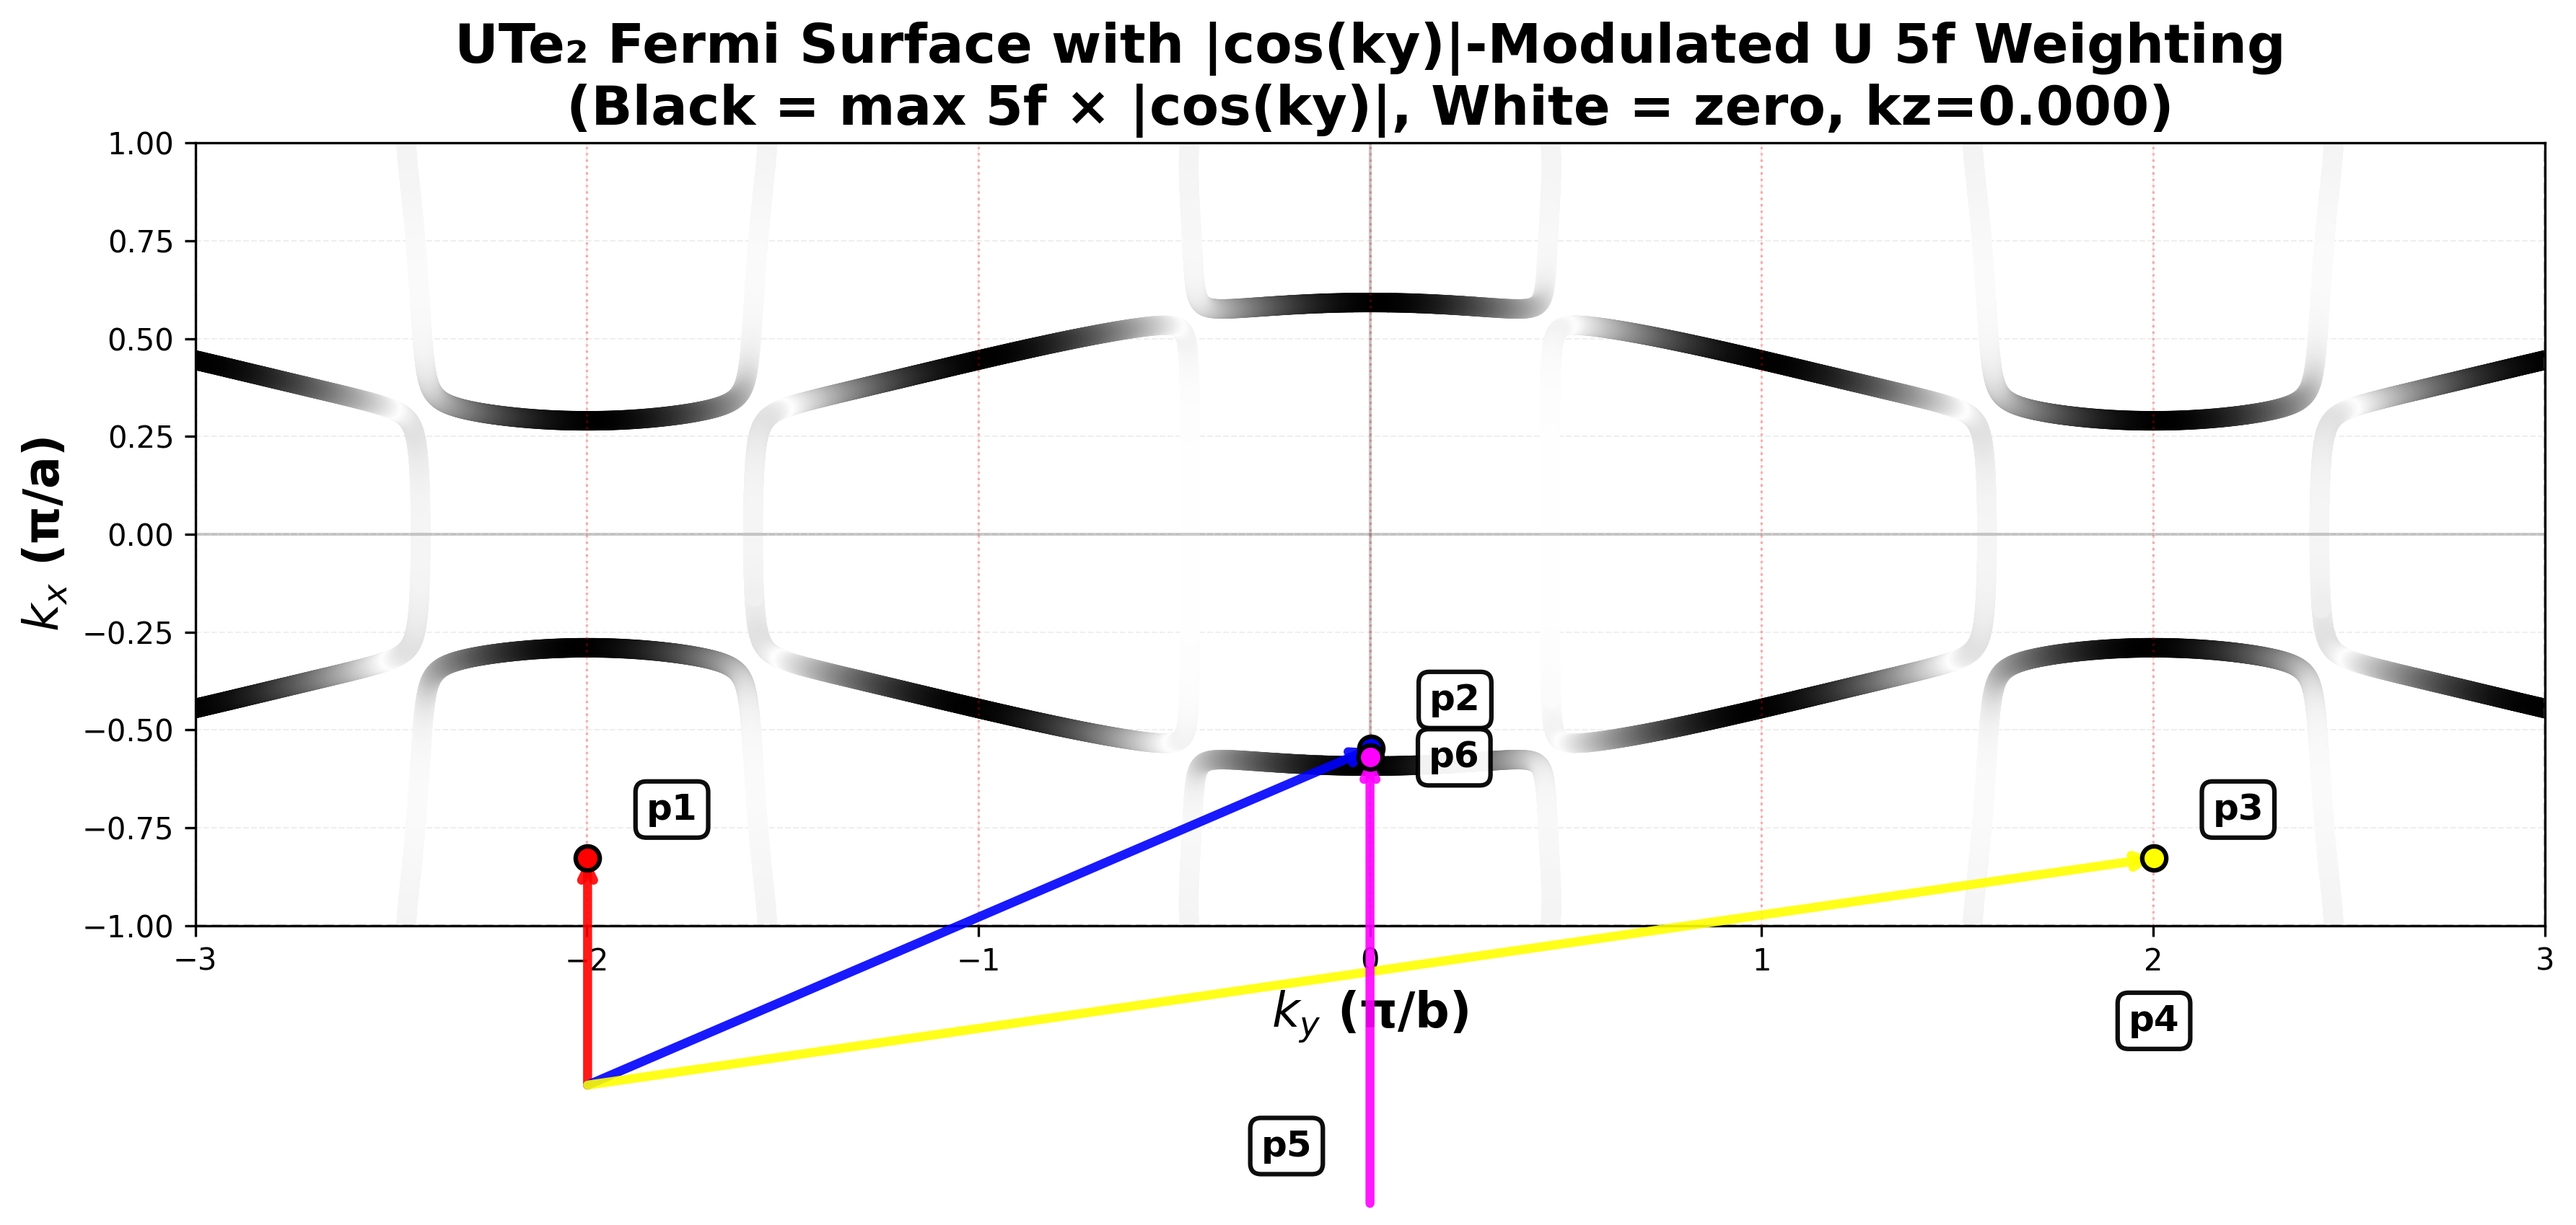
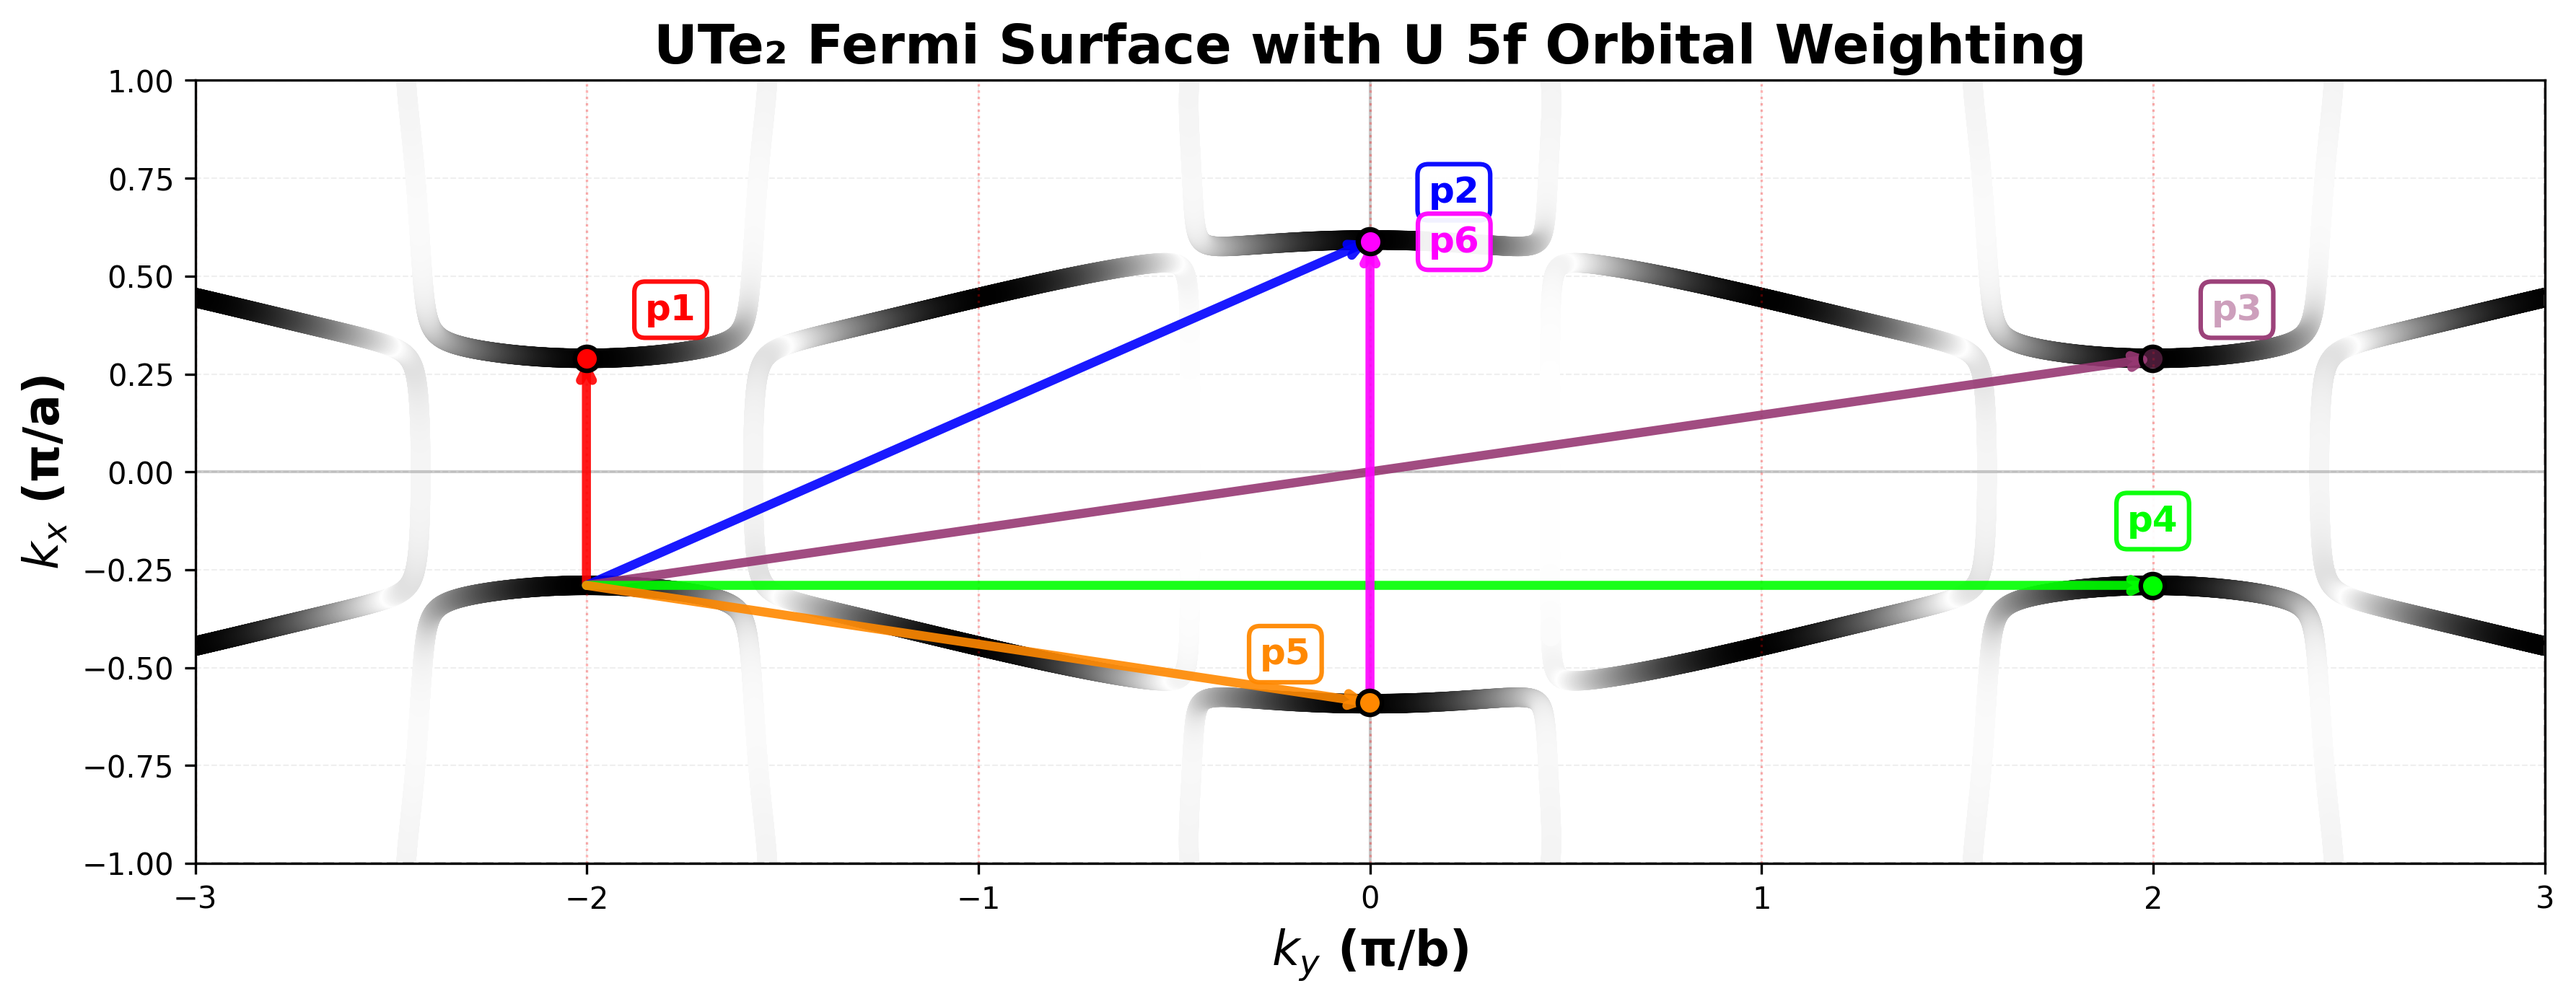
Prepared plots

diff --git a/week16_JDOS_clean.py b/week16_JDOS_clean.py
@@ -142,7 +142,7 @@ def plot_jdos(jdos, qx_vals, qy_vals, kz=0.0, param_set='odd_parity_paper', use_
     print(f"  q-space: qx=[{qx_plot.min():.2f}, {qx_plot.max():.2f}] π/a, qy=[{qy_plot.min():.2f}, {qy_plot.max():.2f}] π/b")
     
     # Create figure
-    fig, ax = plt.subplots(figsize=(12, 10), dpi=300)
+    fig, ax = plt.subplots(figsize=(8, 3), dpi=300)
     
     # Plot JDOS with qy on x-axis, qx on y-axis
     # imshow expects [rows, columns] = [qx, qy] which plots qx on y-axis, qy on x-axis
@@ -150,14 +150,9 @@ def plot_jdos(jdos, qx_vals, qy_vals, kz=0.0, param_set='odd_parity_paper', use_
                   origin='lower', cmap='gray_r', aspect='auto')
     
     # Style
-    ax.set_xlabel(r'$q_y$ (π/b)', fontsize=16, fontweight='bold')
-    ax.set_ylabel(r'$q_x$ (π/a)', fontsize=16, fontweight='bold')
+    ax.set_xlabel(r'$q_y$ (π/b)', fontsize=10, fontweight='bold')
+    ax.set_ylabel(r'$q_x$ (π/a)', fontsize=10, fontweight='bold')
     
-    # Title
-    weight_str = '5f-Weighted'
-    ax.set_title(f'UTe₂ JDOS (All Bands, {weight_str})\n' +
-                f'kz={kz:.3f}, {param_set}', 
-                fontsize=18, fontweight='bold')
     
     # Grid
     ax.grid(True, alpha=0.3, linestyle='--', linewidth=0.5, color='gray')
@@ -176,64 +171,58 @@ def plot_jdos(jdos, qx_vals, qy_vals, kz=0.0, param_set='odd_parity_paper', use_
     # Add wavevectors p1-p6 from origin (0,0)
     print("  Adding wavevectors from origin...")
     
-    # Wavevector definitions (in units of 2π/a, 2π/b)
+    # Wavevector definitions (in units of 2π/a, 2π/b), excluding p3 and p4
     wavevectors = {
         'p1': (0.29, 0),
-        'p2': (0.43, 1),
-        'p3': (0.29, 2),
-        'p4': (0, 2),
-        'p5': (-0.14, 1),
-        'p6': (0.57, 0)
+        'p2': (0.44, 1),
+        'p5': (-0.15, 1),
+        'p6': (0.59, 0)
     }
-    
+
     # Convert to units of π/a, π/b (multiply by 2)
     wavevectors_pi = {k: (v[0]*2, v[1]*2) for k, v in wavevectors.items()}
-    
+
     # Colors for wavevectors
     vector_colors = {
         'p1': '#FF0000',  # Red
         'p2': '#0000FF',  # Blue
-        'p3': '#FFFF00',  # Yellow
-        'p4': '#00FF00',  # Green
         'p5': '#FF8800',  # Orange
         'p6': '#FF00FF'   # Magenta
     }
-    
+
     # Label positioning offsets and alignments
     label_positions = {
         'p1': {'offset': (0.15, 0.08), 'ha': 'left', 'va': 'bottom'},
         'p2': {'offset': (0.15, 0.08), 'ha': 'left', 'va': 'bottom'},
-        'p3': {'offset': (0.15, 0.08), 'ha': 'left', 'va': 'bottom'},
-        'p4': {'offset': (0.0, 0.12), 'ha': 'center', 'va': 'bottom'},
         'p5': {'offset': (-0.15, 0.08), 'ha': 'right', 'va': 'bottom'},
         'p6': {'offset': (0.15, 0.0), 'ha': 'left', 'va': 'center'}
     }
-    
+
     # Plot wavevectors from origin
     origin = (0, 0)  # (qx, qy) = (0, 0)
-    
+
     for label, (qx_pi, qy_pi) in wavevectors_pi.items():
         # Endpoint is just the vector itself
         endpoint = (qx_pi, qy_pi)
-        
+
         # Plot arrow (swap to qy, qx for our axes)
         ax.annotate('', 
                    xy=(endpoint[1], endpoint[0]),  # (qy, qx)
                    xytext=(origin[1], origin[0]),  # (qy, qx)
                    arrowprops=dict(arrowstyle='->', color=vector_colors[label], 
-                                  lw=3, alpha=0.9, shrinkA=0, shrinkB=0))
-        
+                                  lw=2, alpha=0.9, shrinkA=0, shrinkB=0))
+
         # Add marker at endpoint
         ax.plot(endpoint[1], endpoint[0], 'o', color=vector_colors[label], 
-               markersize=8, markeredgecolor='black', markeredgewidth=1.5, zorder=10)
-        
+               markersize=5, markeredgecolor='black', markeredgewidth=1, zorder=10)
+
         # Add label with smart positioning (offset in qy, qx space)
         pos_info = label_positions[label]
         label_qy = endpoint[1] + pos_info['offset'][0]
         label_qx = endpoint[0] + pos_info['offset'][1]
-        
+
         ax.text(label_qy, label_qx, label, 
-               color='black', fontsize=12, fontweight='bold',
+               color='black', fontsize=6, fontweight='bold',
                horizontalalignment=pos_info['ha'],
                verticalalignment=pos_info['va'],
                bbox=dict(boxstyle='round,pad=0.3', 
@@ -328,7 +317,7 @@ def plot_jdos_011_projection(jdos, qx_vals, qy_vals, kz=0.0, param_set='odd_pari
     print(f"  Interpolated JDOS range: {JDOS_011.min():.4f} to {JDOS_011.max():.4f}")
     
     # Create figure
-    fig, ax = plt.subplots(figsize=(12, 10), dpi=300)
+    fig, ax = plt.subplots(figsize=(8, 3), dpi=300)
     
     # Plot JDOS with qc* on x-axis, qx on y-axis
     im = ax.imshow(JDOS_011, 
@@ -337,14 +326,10 @@ def plot_jdos_011_projection(jdos, qx_vals, qy_vals, kz=0.0, param_set='odd_pari
                   origin='lower', cmap='gray_r', aspect='auto')
     
     # Style
-    ax.set_xlabel(r'$q_{c^*}$ (π/c*)', fontsize=16, fontweight='bold')
-    ax.set_ylabel(r'$q_x$ (π/a)', fontsize=16, fontweight='bold')
+    ax.set_xlabel(r'$q_{c^*}$ (π/c*)', fontsize=10, fontweight='bold')
+    ax.set_ylabel(r'$q_x$ (π/a)', fontsize=10, fontweight='bold')
     
-    # Title
-    weight_str = '5f-Weighted'
-    ax.set_title(f'UTe₂ JDOS on (0-11) Plane ({weight_str})\n' +
-                f'kz={kz:.3f}, {param_set}', 
-                fontsize=18, fontweight='bold')
+
     
     # Grid
     ax.grid(True, alpha=0.3, linestyle='--', linewidth=0.5, color='gray')
@@ -356,26 +341,26 @@ def plot_jdos_011_projection(jdos, qx_vals, qy_vals, kz=0.0, param_set='odd_pari
     ax.add_patch(bz_rect)
     
     # Set axis limits
-    ax.set_xlim(qc_011_pi_cstar.min()*0.8, qc_011_pi_cstar.max()*0.8)
+    ax.set_xlim(qc_011_pi_cstar.min(), qc_011_pi_cstar.max())
     ax.set_ylim(qx_011.min()*0.8, qx_011.max()*0.8)
     ax.set_aspect('equal', adjustable='box')
     
     # Add projected wavevectors p1-p6 from origin (0,0)
     print("  Adding projected wavevectors from origin...")
     
-    # Original wavevector definitions (in units of 2π/a, 2π/b)
+    # Original wavevector definitions (in units of 2π/a, 2π/b), excluding p3 and p4
     wavevectors_original = {
         'p1': (0.29, 0),
-        'p2': (0.43, 1),
+        'p2': (0.44, 1),
         'p3': (0.29, 2),
         'p4': (0, 2),
-        'p5': (-0.14, 1),
-        'p6': (0.57, 0)
+        'p5': (-0.15, 1),
+        'p6': (0.59, 0)
     }
-    
+
     # Convert to π/a, π/b units (multiply by 2)
     wavevectors_pi = {k: (v[0]*2, v[1]*2) for k, v in wavevectors_original.items()}
-    
+
     # Project to (0-11) plane: convert qy (π/b units) to qc* (π/c* units)
     # qc* [π/c*] = qy [π/b] * scaling_factor
     wavevectors_projected = {}
@@ -384,52 +369,52 @@ def plot_jdos_011_projection(jdos, qx_vals, qy_vals, kz=0.0, param_set='odd_pari
         qc_proj = qy_pi_b * scaling_factor  # convert from π/b to π/c*
         wavevectors_projected[label] = (qx_proj, qc_proj)
         print(f"    {label}: ({qx_pi_a:.2f}, {qy_pi_b:.2f}) π/a,π/b -> ({qx_proj:.2f}, {qc_proj:.2f}) π/a,π/c*")
-    
+
     # Colors for wavevectors
     vector_colors = {
         'p1': '#FF0000',  # Red
         'p2': '#0000FF',  # Blue
-        'p3': '#FFFF00',  # Yellow
-        'p4': '#00FF00',  # Green
+        'p3': "#9738737A",  
+        'p4': '#00FF00', 
         'p5': '#FF8800',  # Orange
         'p6': '#FF00FF'   # Magenta
     }
-    
+
     # Label positioning offsets and alignments (adjusted for new coordinates)
     label_positions = {
         'p1': {'offset': (0.10, 0.08), 'ha': 'left', 'va': 'bottom'},
         'p2': {'offset': (0.10, 0.08), 'ha': 'left', 'va': 'bottom'},
         'p3': {'offset': (0.10, 0.08), 'ha': 'left', 'va': 'bottom'},
-        'p4': {'offset': (0.0, 0.12), 'ha': 'center', 'va': 'bottom'},
+        'p4': {'offset': (-0.10, 0.08), 'ha': 'right', 'va': 'bottom'},
         'p5': {'offset': (-0.10, 0.08), 'ha': 'right', 'va': 'bottom'},
         'p6': {'offset': (0.10, 0.0), 'ha': 'left', 'va': 'center'}
     }
-    
+
     # Plot wavevectors from origin
     origin = (0, 0)  # (qx, qc*) = (0, 0)
-    
+
     for label, (qx_proj, qc_proj) in wavevectors_projected.items():
         # Endpoint is the projected vector
         endpoint = (qx_proj, qc_proj)
-        
+
         # Plot arrow (qc* on x-axis, qx on y-axis)
         ax.annotate('', 
                    xy=(endpoint[1], endpoint[0]),  # (qc*, qx)
                    xytext=(origin[1], origin[0]),  # (qc*, qx)
                    arrowprops=dict(arrowstyle='->', color=vector_colors[label], 
-                                  lw=3, alpha=0.9, shrinkA=0, shrinkB=0))
-        
+                                  lw=2, alpha=0.9, shrinkA=0, shrinkB=0))
+
         # Add marker at endpoint
         ax.plot(endpoint[1], endpoint[0], 'o', color=vector_colors[label], 
-               markersize=8, markeredgecolor='black', markeredgewidth=1.5, zorder=10)
-        
+               markersize=5, markeredgecolor='black', markeredgewidth=1, zorder=10)
+
         # Add label with smart positioning
         pos_info = label_positions[label]
         label_qc = endpoint[1] + pos_info['offset'][0]
         label_qx = endpoint[0] + pos_info['offset'][1]
-        
+
         ax.text(label_qc, label_qx, label, 
-               color='black', fontsize=12, fontweight='bold',
+               color='black', fontsize=6, fontweight='bold',
                horizontalalignment=pos_info['ha'],
                verticalalignment=pos_info['va'],
                bbox=dict(boxstyle='round,pad=0.3', 

diff --git a/week16_spectral.py b/week16_spectral.py
@@ -27,8 +27,8 @@ def calculate_5f_weighted_fermi_surface(kz=0.0, resolution=512):
     print(f"Resolution: {resolution}×{resolution}")
     
     # Create k-space grid
-    kx_vals = np.linspace(-2*np.pi/a, 2*np.pi/a, resolution)
-    ky_vals = np.linspace(-6*np.pi/b, 6*np.pi/b, resolution)
+    kx_vals = np.linspace(-np.pi/a, np.pi/a, resolution)
+    ky_vals = np.linspace(-3*np.pi/b, 3*np.pi/b, resolution)
     
     # Create meshgrid and flatten for vectorized computation
     KX, KY = np.meshgrid(kx_vals, ky_vals, indexing='ij')
@@ -168,8 +168,7 @@ def plot_5f_weighted_fermi_contours(energies, weights_5f, kx_vals, ky_vals,
     # Style the plot
     ax.set_xlabel(r'$k_y$ (π/b)', fontsize=16, fontweight='bold')
     ax.set_ylabel(r'$k_x$ (π/a)', fontsize=16, fontweight='bold')
-    ax.set_title(f'UTe₂ Fermi Surface with U 5f Orbital Weighting\n' +
-                f'(Black = max 5f character, White = no 5f character, kz={kz:.3f})', 
+    ax.set_title(f'UTe₂ Fermi Surface with U 5f Orbital Weighting', 
                 fontsize=18, fontweight='bold')
     
     # Add grid
@@ -360,10 +359,8 @@ def plot_5f_cosine_modulated_fermi_contours(energies, weights_5f, kx_vals, ky_va
     # Style the plot
     ax.set_xlabel(r'$k_y$ (π/b)', fontsize=16, fontweight='bold')
     ax.set_ylabel(r'$k_x$ (π/a)', fontsize=16, fontweight='bold')
-    ax.set_title(f'UTe₂ Fermi Surface with |cos(ky)|-Modulated U 5f Weighting\n' +
-                f'(Black = max 5f × |cos(ky)|, White = zero, kz={kz:.3f})', 
+    ax.set_title(f'UTe₂ Fermi Surface with U 5f Orbital Weighting', 
                 fontsize=18, fontweight='bold')
-    
     # Add grid
     ax.grid(True, alpha=0.2, linestyle='--', linewidth=0.5)
     ax.axhline(0, color='k', linestyle='-', alpha=0.2, linewidth=1)
@@ -385,11 +382,11 @@ def plot_5f_cosine_modulated_fermi_contours(energies, weights_5f, kx_vals, ky_va
     # Wavevector definitions (in units of 2π/a, 2π/b)
     wavevectors = {
         'p1': (0.29, 0),
-        'p2': (0.43, 1),
+        'p2': (0.44, 1),
         'p3': (0.29, 2),
         'p4': (0, 2),
-        'p5': (-0.14, 1),
-        'p6': (0.57, 0)
+        'p5': (-0.15, 1),
+        'p6': (0.59, 0)
     }
     
     # Convert to units of π/a, π/b (multiply by 2)
@@ -415,7 +412,7 @@ def plot_5f_cosine_modulated_fermi_contours(energies, weights_5f, kx_vals, ky_va
     vector_colors = {
         'p1': '#FF0000',  # Red
         'p2': '#0000FF',  # Blue
-        'p3': '#FFFF00',  # Yellow
+        'p3': "#9738737A",  
         'p4': '#00FF00',  # Green
         'p5': '#FF8800',  # Orange
         'p6': '#FF00FF'   # Magenta
@@ -459,13 +456,12 @@ def plot_5f_cosine_modulated_fermi_contours(energies, weights_5f, kx_vals, ky_va
         label_kx = endpoint[0] + pos_info['offset'][1]
         
         ax.text(label_ky, label_kx, label, 
-               color='black', fontsize=12, fontweight='bold',
+               color=vector_colors[label], fontsize=12, fontweight='bold',
                horizontalalignment=pos_info['ha'],
                verticalalignment=pos_info['va'],
                bbox=dict(boxstyle='round,pad=0.3', 
-                        facecolor='white', edgecolor='black', linewidth=1.5, alpha=0.95),
+                facecolor='white', edgecolor=vector_colors[label], linewidth=1.5, alpha=0.95),
                zorder=11)
-    
     # Set axis limits
     ax.set_xlim(-3.0, 3.0)
     ax.set_ylim(-1.0, 1.0)
@@ -549,7 +545,7 @@ def main():
     )
     
     # Save data for JDOS calculation
-    save_jdos_data(energies, weights_5f, kx_vals, ky_vals, kz=kz, param_set=param_set)
+    #save_jdos_data(energies, weights_5f, kx_vals, ky_vals, kz=kz, param_set=param_set)
 
     
     fig, ax = plot_5f_cosine_modulated_fermi_contours(
